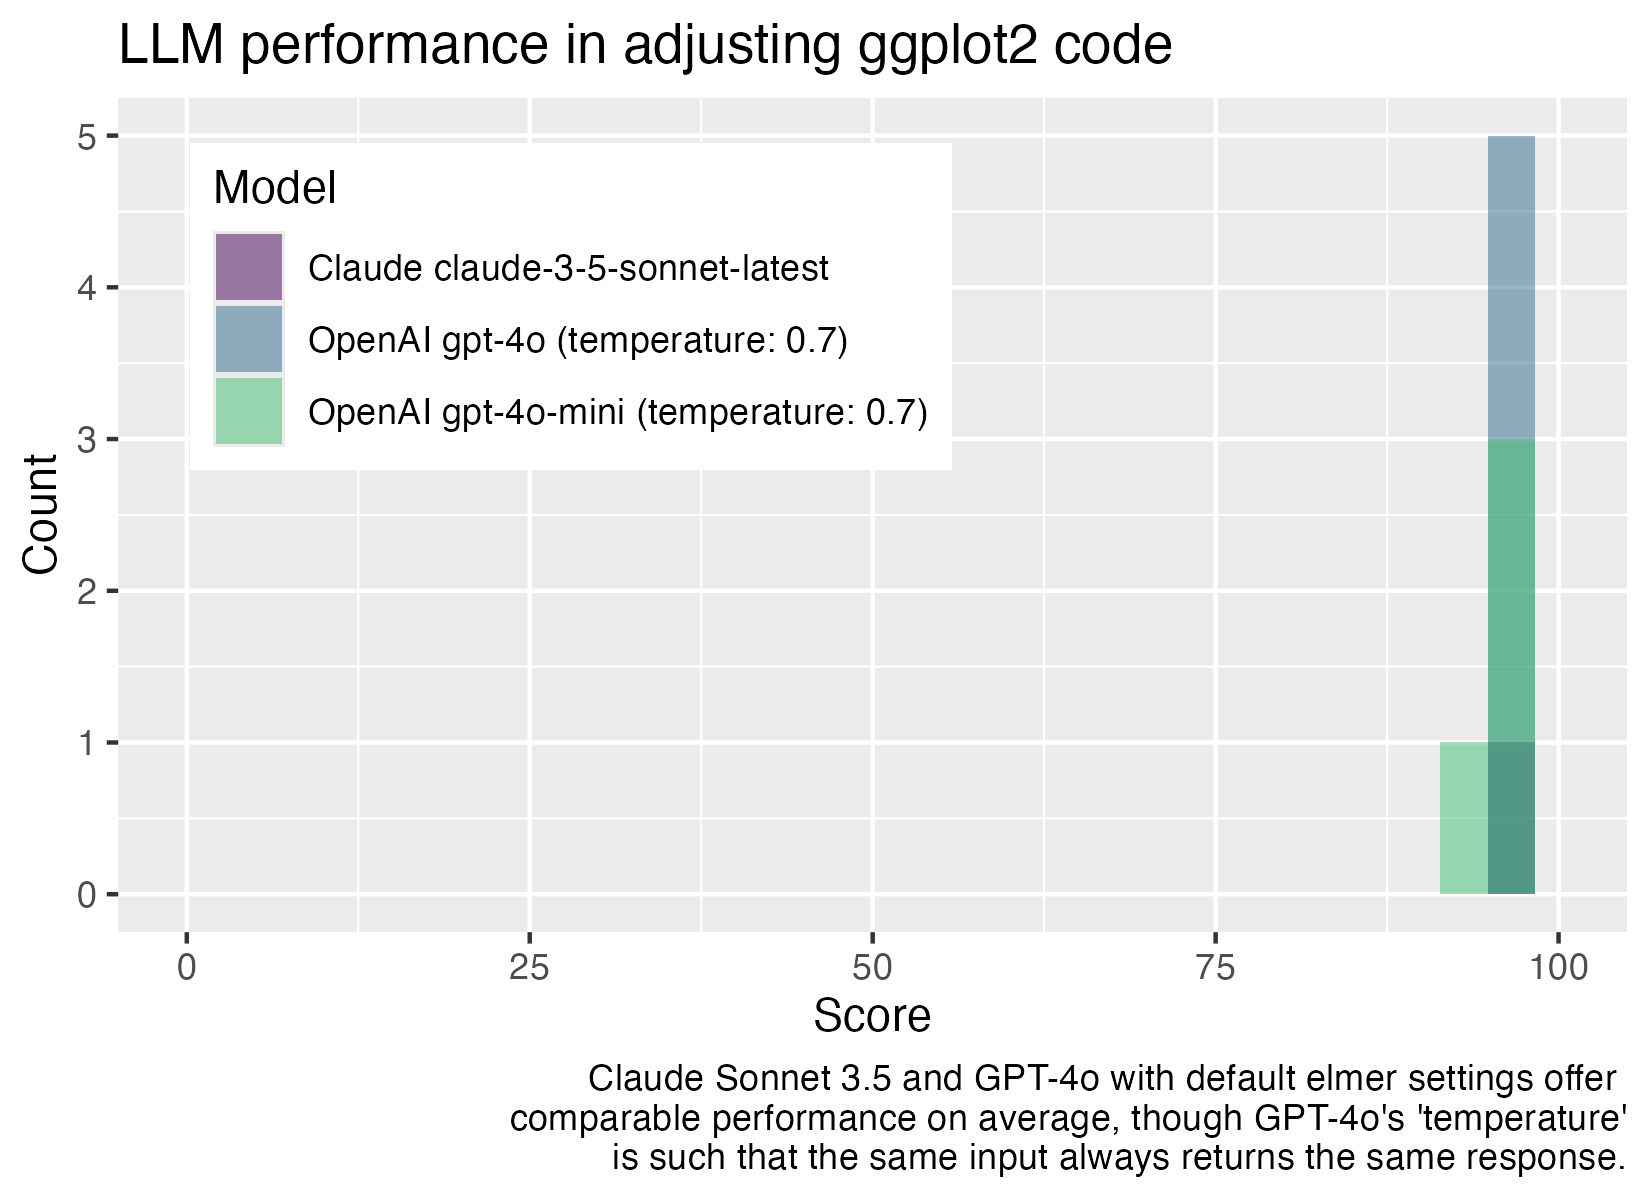
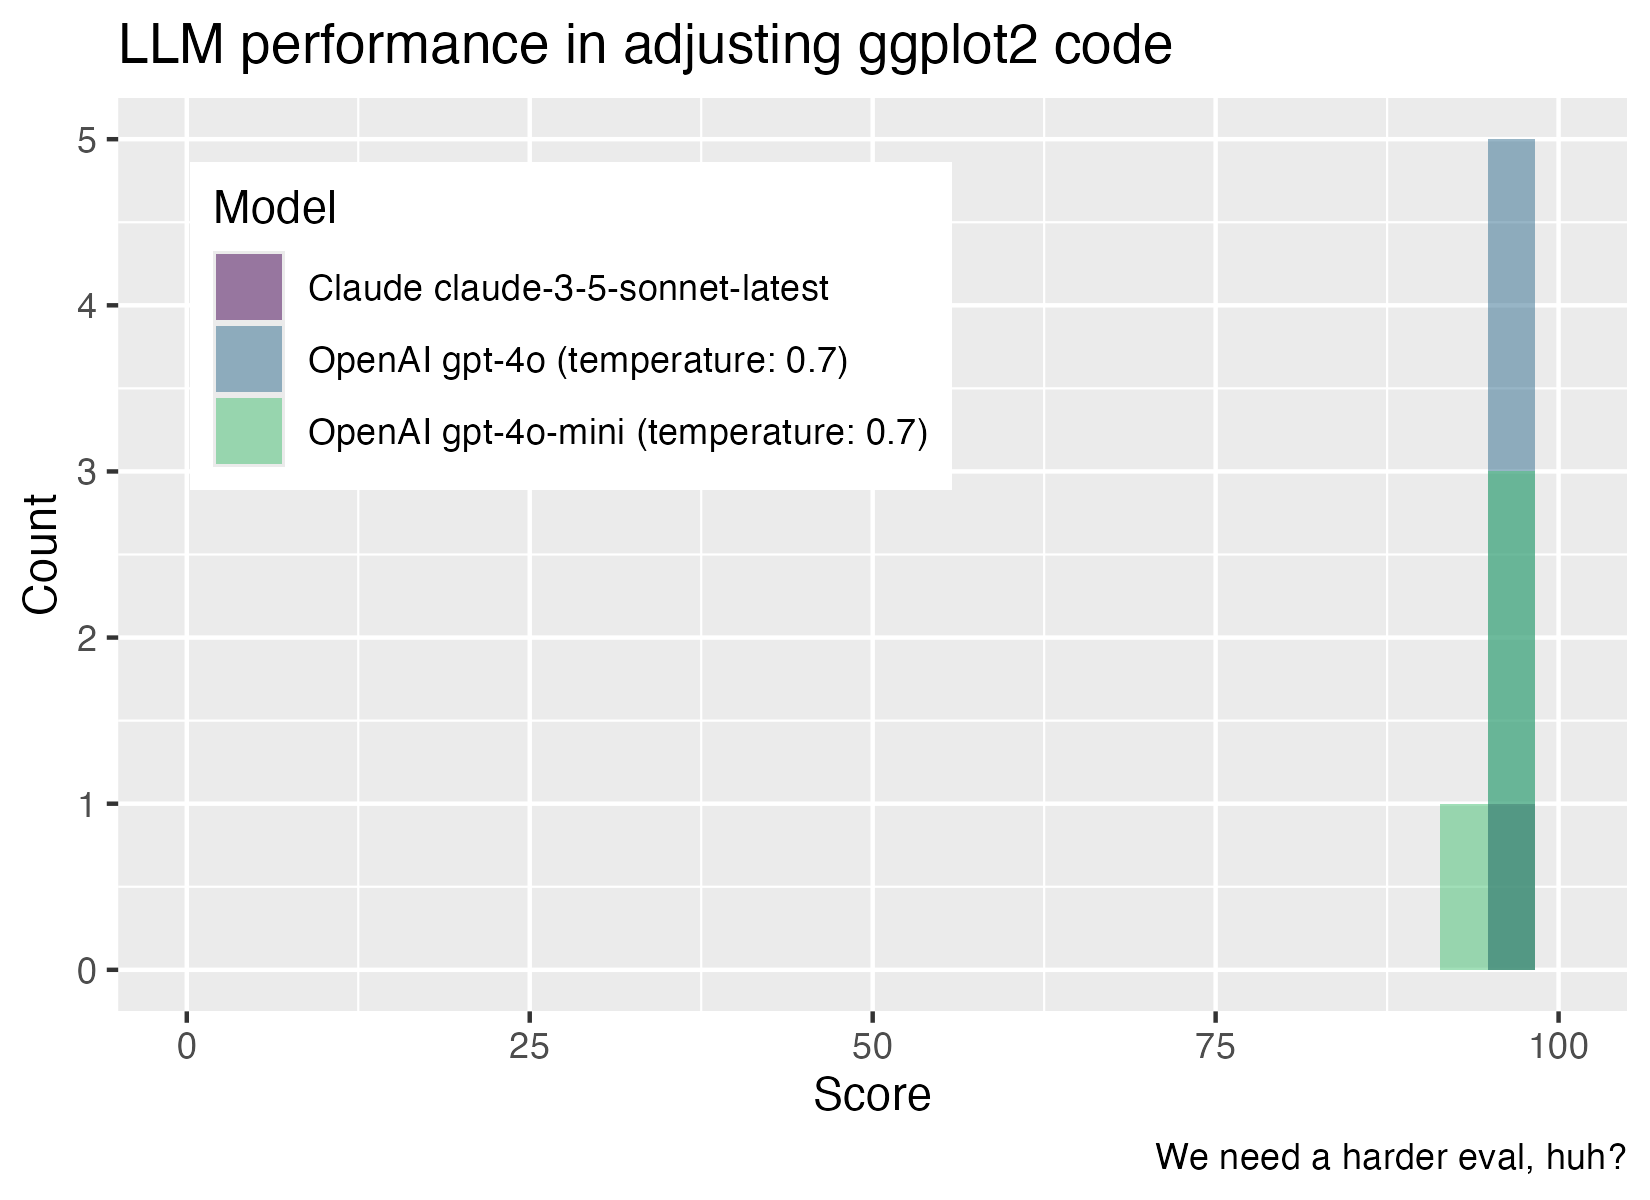
adjust outdated figure caption

diff --git a/README.md b/README.md
@@ -105,4 +105,4 @@ Then, `results_read()` will return a data frame with information on the
 evaluation results for further analysis. Visualizing this example
 output:
 
-<img src="inst/ex_plot.png" alt="A ggplot2 histogram, showing distributions of performance on the task 'translating R erroring code to cli' for three different models: Claude 3.5 Sonner, GPT-4o, and GPT-4o-mini. Claude Sonnet 3.5 and GPT-4o with default elmer settings offer comparable performance on average, though GPT-4o's 'temperature' is such that the same input always returns the same response." width="100%" />
+<img src="inst/ex_plot.png" alt="A ggplot2 histogram, showing distributions of performance on the task 'translating R erroring code to cli' for three different models: Claude 3.5 Sonner, GPT-4o, and GPT-4o-mini. They all pass with flying colors, probably indicating the need for a harder eval." width="100%" />
